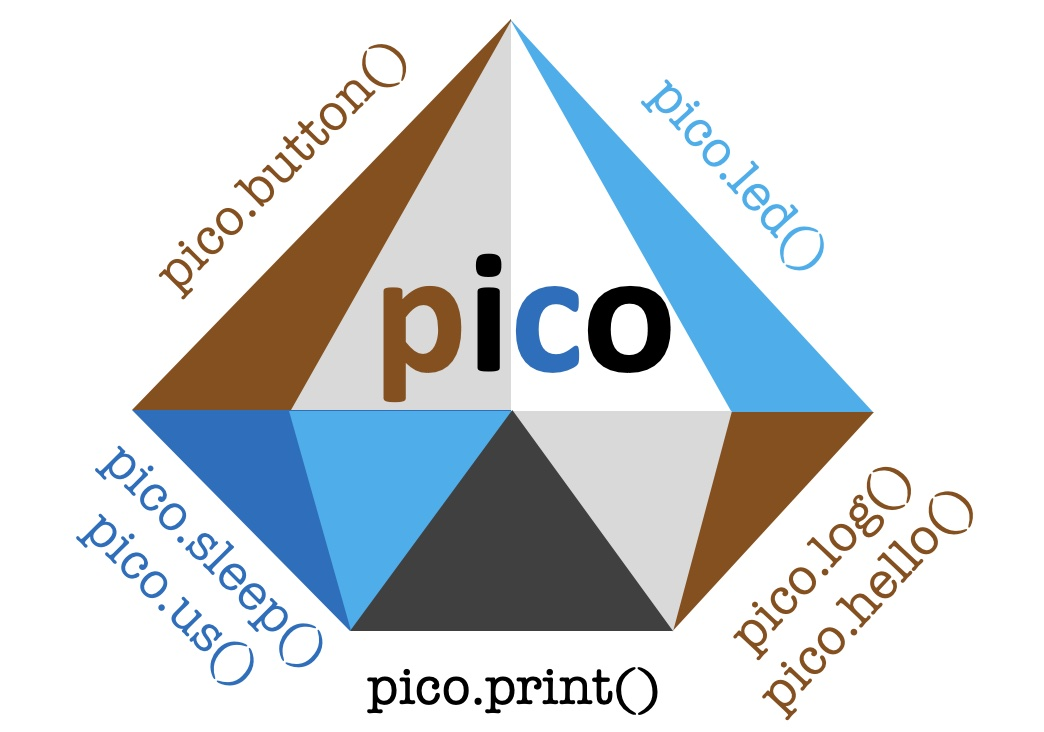
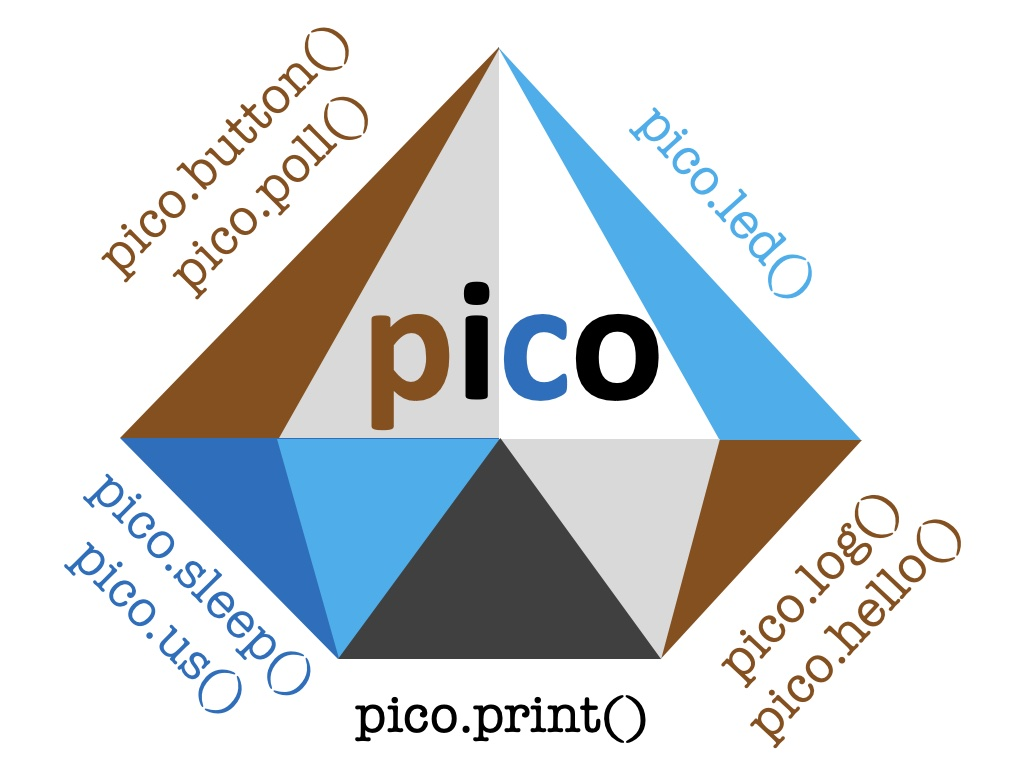
refactoring pico/button

diff --git a/include/zephyr/pico/button.h b/include/zephyr/pico/button.h
@@ -5,6 +5,9 @@
 #include <zephyr/kernel.h>
 #include <zephyr/drivers/gpio.h>
 
+//>>>>>>>>>>>>>>>>>>>>>>>>>>>>>>
+#include "pico/console.h"
+//<<<<<<<<<<<<<<<<<<<<<<<<<<<<<<
 #define BUTTON0  DT_ALIAS(sw0)  // DT node ID for button @1
 #define BUTTON1  DT_ALIAS(sw1)  // DT node ID for button @2
 #define BUTTON2  DT_ALIAS(sw2)  // DT node ID for button @3
@@ -15,19 +18,22 @@ typedef struct {
   const struct gpio_dt_spec ds; // button pin device spec
   struct gpio_callback context; // to assign IRS
   void (*cb)(int i, int on);    // application callback
-} button_t;
+} PI_button;
 
 static inline void _button_isr_(const struct device *dev,
   struct gpio_callback *ctx, uint32_t pins)
 {
-  button_t *p = CONTAINER_OF(ctx,button_t,context);
-  int on = gpio_pin_get_dt(&p->ds);
+  PI_button *p = CONTAINER_OF(ctx,PI_button,context);
+int on=0;pi_print("button @%d: %d (%p)\n",p->ix,on,p->cb);
+return;
+  //int on = gpio_pin_get_dt(&p->ds);
   if (p->cb) p->cb(p->ix,on);
 }
 
-static inline int pi_button(void (*cb)(int i,int on))
+static inline PI_button *
+  _pi_button_ptr_(int i,void (*cb)(int i,int on))
 {
-  static button_t but[] = {
+  static PI_button but[] = {
     #if DT_NODE_HAS_STATUS(BUTTON0, okay)
       {.ix=1, .ds=GPIO_DT_SPEC_GET_OR(BUTTON0,gpios,{0})},
     #endif
@@ -42,20 +48,35 @@ static inline int pi_button(void (*cb)(int i,int on))
     #endif
   };
 
-  int n = sizeof(but) / sizeof((but)[0]);
-  for (int i=0; i < n; i++) {
-    button_t *p = &but[i];
+  static int n = 0; // number of initialized LEDs
+	for (; n < sizeof(but)/sizeof(but[0]); n++) {
+    PI_button *p = but + n;
     if (!device_is_ready(p->ds.port)) {
       printk("error %d: BUTTON device not ready\n",-ENODEV);
-      return -ENODEV;
+      continue;
     }
+pi_print("set button @%d callback (%d)\n",n+1,p-but);
     p->cb = cb;  // store application callback
     gpio_pin_configure_dt(&p->ds,GPIO_INPUT);
     gpio_pin_interrupt_configure_dt(&p->ds,GPIO_INT_EDGE_BOTH);
     gpio_init_callback(&p->context, _button_isr_, BIT(p->ds.pin));
     gpio_add_callback(p->ds.port, &p->context);
-  }
-  return 0;
+	}
+  return (i<1 || i>n) ? NULL : but + (i-1);
+}
+
+static inline void pi_button(void (*cb)(int i,int on))
+{
+//>>>>>>>>>>>>>>>>>>>>>>>
+cb(88,66);
+//<<<<<<<<<<<<<<<<<<<<<<<
+  _pi_button_ptr_(0,cb);
+}
+
+static inline int pi_poll(int i)
+{
+  PI_button *p = _pi_button_ptr_(i,NULL);
+  return gpio_pin_get_dt(&p->ds);
 }
 
 #endif // __PICO_BUTTON_H__

diff --git a/include/zephyr/pico/api.h b/include/zephyr/pico/api.h
@@ -19,7 +19,8 @@ extern "C" {
     int (*log)(int lvl,PI_txt fmt,...);
     void (*hello)(int lvl,PI_txt txt);
     void (*led)(int i,int val);
-    int (*button)(void(*cb)(int i,int on));
+    void (*button)(void(*cb)(int i,int on));
+    int (*poll)(int i);
 
     PI_us (*clock)(PI_us us);
     void (*now)(int *min,int *s,int *ms,int *us);
@@ -34,7 +35,8 @@ extern "C" {
       .print=pi_print, .sleep=pi_sleep,
       .us=pi_us, .log=pi_log,
       .hello=pi_hello, .led=pi_led,
-      .button=pi_button, .clock=pi_clock,
+      .button=pi_button, .poll=pi_poll,
+      .clock=pi_clock,
       .now=pi_now, .console=pi_console,
       .vprint=pi_vprint, .vlog=pi_vlog,
     };
